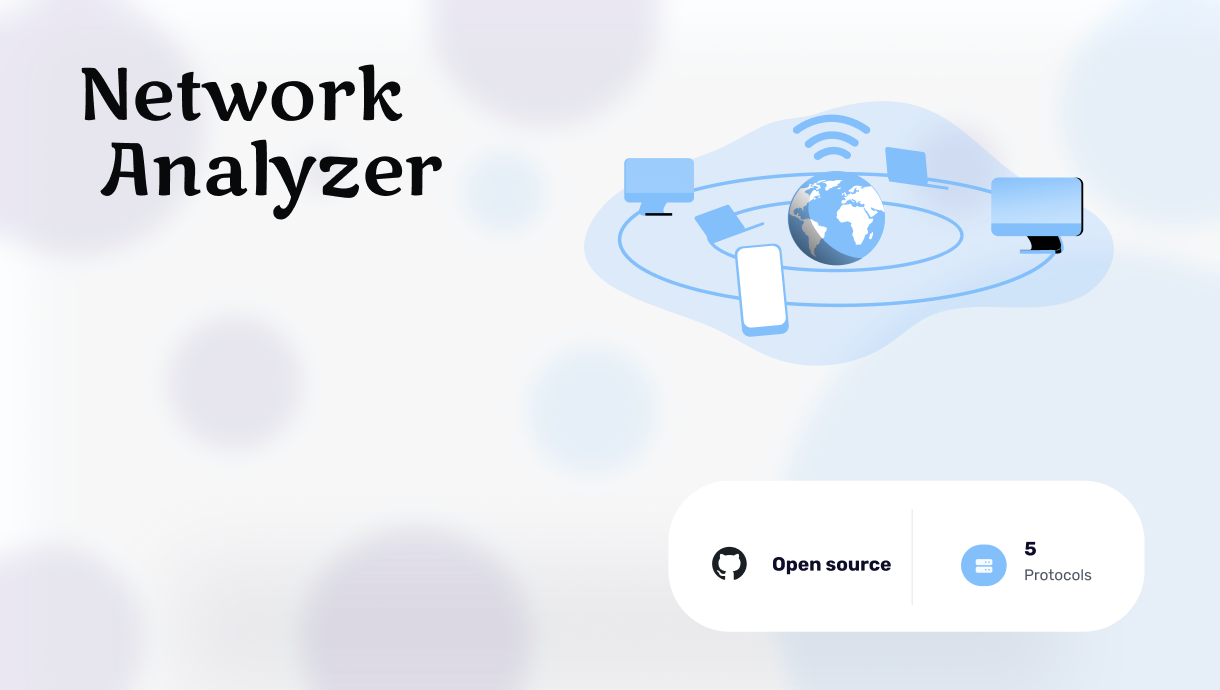
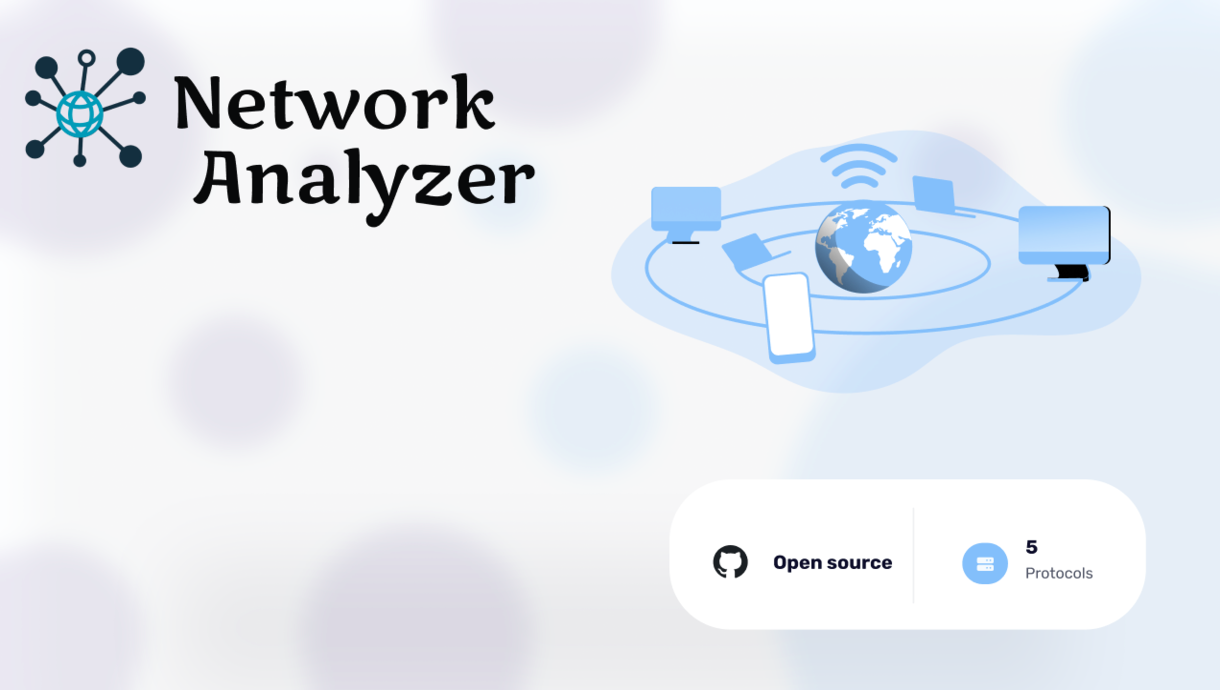
change main frame and add loading and about us srceens

diff --git a/src/fr/networkanalyzer/view/styles.css b/src/fr/networkanalyzer/view/styles.css
@@ -2,6 +2,8 @@
   -fx-font-family: "Lucida Console";
 }
 
+/* Main */
+
 #mainPanel {
   -fx-background-image: url("../../../../resources/main_background.png");
   -fx-background-repeat: stretch;
@@ -54,4 +56,20 @@
   visibility: hidden;
   -fx-font-size: 13;
   -fx-text-fill: rgb(192, 49, 49);
+}
+
+/* About us */
+
+#aboutUsPanel {
+  -fx-background-image: url("../../../../resources/aboutus_background.png");
+  -fx-background-repeat: stretch;
+  -fx-background-position: center center;
+  -fx-border-radius: 10;
+}
+
+#loadingPanel {
+  -fx-background-image: url("../../../../resources/loading_background.png");
+  -fx-background-repeat: stretch;
+  -fx-background-position: center center;
+  -fx-border-radius: 10;
 }

diff --git a/src/fr/networkanalyzer/controller/LoadingController.java b/src/fr/networkanalyzer/controller/LoadingController.java
@@ -1,0 +1,37 @@
+package fr.networkanalyzer.controller;
+
+import javafx.animation.Animation;
+import javafx.animation.RotateTransition;
+import javafx.fxml.FXML;
+import javafx.scene.shape.Circle;
+import javafx.util.Duration;
+
+public class LoadingController {
+	
+	@FXML
+	private Circle topCircle;
+	
+	@FXML
+	private Circle meduimCircle;
+	
+	@FXML
+	private Circle bottomCircle;
+
+	@FXML
+	public void initialize() {
+		setRotate(topCircle, 360, 10);
+		setRotate(meduimCircle, 180, 18);
+		setRotate(bottomCircle, 145, 20);
+	}
+
+	private void setRotate(Circle c, int angle, int duration) {
+		RotateTransition rt = new RotateTransition(Duration.seconds(duration), c);
+		rt.setAutoReverse(true);
+		rt.setByAngle(angle);
+		rt.setDelay(Duration.seconds(0));
+		rt.setRate(5);
+		rt.setCycleCount(Animation.INDEFINITE);
+		rt.play();
+	}
+	
+}

diff --git a/src/fr/networkanalyzer/application/Main.java b/src/fr/networkanalyzer/application/Main.java
@@ -12,7 +12,7 @@ public class Main extends Application {
 	@Override
 	public void start(Stage primaryStage) {
 		try {
-			Parent root = FXMLLoader.load(getClass().getResource("/fr/networkanalyzer/view/fxml/main.fxml"));
+			Parent root = FXMLLoader.load(getClass().getResource("/fr/networkanalyzer/view/fxml/loading.fxml"));
 			primaryStage.setTitle("networkanalyzer");
 			Scene scene = new Scene(root);
 			primaryStage.setScene(scene);

diff --git a/src/fr/networkanalyzer/controller/MainController.java b/src/fr/networkanalyzer/controller/MainController.java
@@ -12,7 +12,7 @@ import javafx.scene.input.KeyCode;
 import javafx.scene.input.KeyEvent;
 import javafx.stage.FileChooser;
 
-public class MainController {
+public class MainController  {
 
 	@FXML
 	private Button loadBtn;
@@ -82,4 +82,5 @@ public class MainController {
 		
 		return true;
 	}
+
 }

diff --git a/src/fr/networkanalyzer/controller/AboutUsController.java b/src/fr/networkanalyzer/controller/AboutUsController.java
@@ -1,0 +1,5 @@
+package fr.networkanalyzer.controller;
+
+public class AboutUsController {
+
+}
